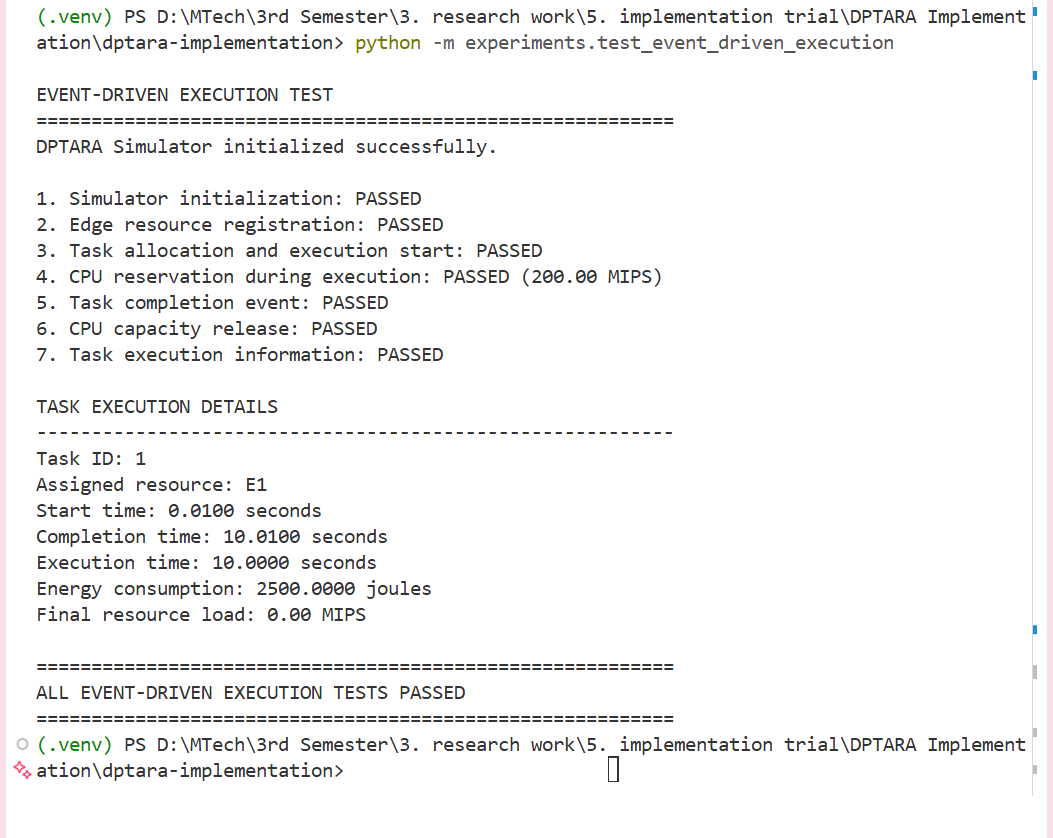
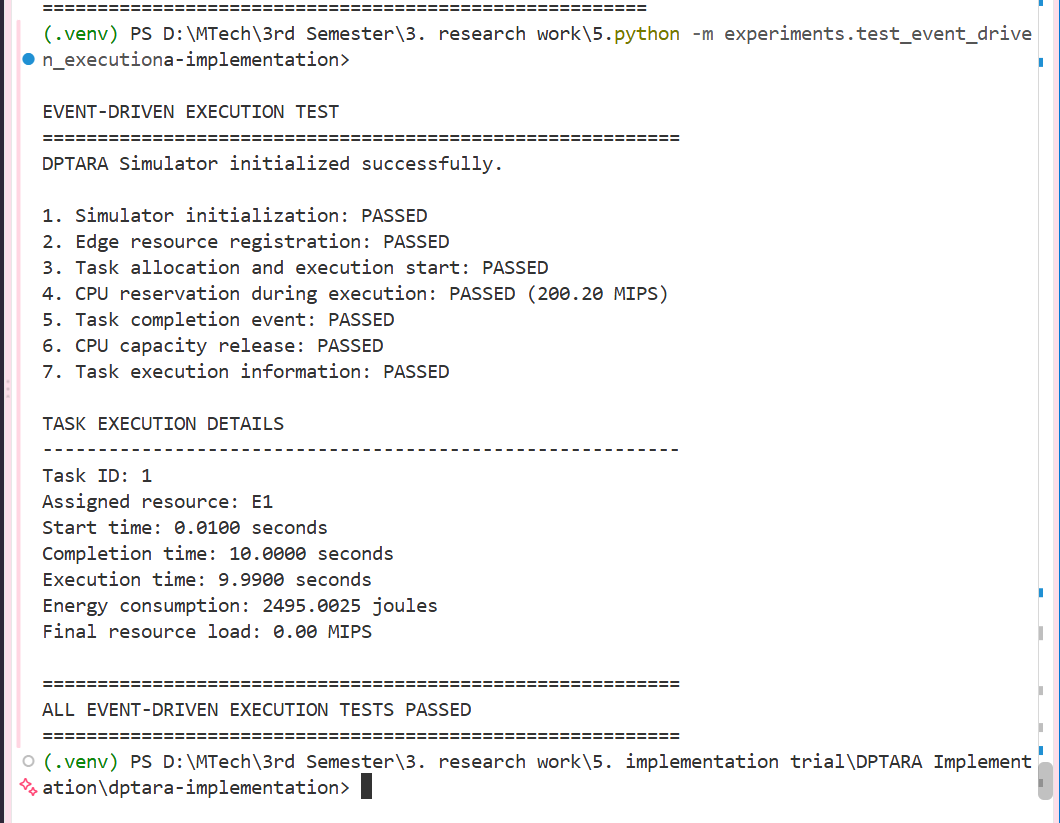
img update

Changed region(s): [[0.0, 0.0, 1.0, 1.0]]

diff --git a/src/resource_allocator.py b/src/resource_allocator.py
@@ -7,11 +7,15 @@ class ResourceAllocator:
     """
     Allocates tasks to local, edge, or cloud resources.
 
-    CPU demand is calculated using:
-        Workload (MI) / Deadline (seconds)
+    Workload (MI) = Task size (MB) * Instructions per MB
 
-    The instructions-per-MB conversion is an
-    implementation assumption, not a paper-specified value.
+    Available compute time =
+        Task deadline - Network delay
+
+    CPU demand (MIPS) =
+        Workload / Available compute time
+
+    Instructions per MB is an implementation assumption.
     """
 
     def __init__(
@@ -29,13 +33,10 @@ class ResourceAllocator:
         self.resource_manager = resource_manager
         self.instructions_per_mb = instructions_per_mb
 
-    def calculate_cpu_demand(self, task):
+    def calculate_cpu_demand(self, task, resource=None):
         """
-        Estimate task workload and required CPU capacity.
-
-        Workload (MI) = Task size (MB) * Instructions per MB
-
-        CPU demand (MIPS) = Workload (MI) / Deadline (seconds)
+        Calculate CPU demand after accounting for
+        the selected resource's network latency.
         """
 
         if task.size_mb <= 0:
@@ -44,48 +45,63 @@ class ResourceAllocator:
         if task.deadline <= 0:
             raise ValueError("Task deadline must be positive.")
 
+        network_delay = 0.0
+
+        if resource is not None:
+            network_delay = resource.network_latency_ms / 1000.0
+
+        available_compute_time = task.deadline - network_delay
+
+        if available_compute_time <= 0:
+            return None
+
         workload = (
             task.size_mb * self.instructions_per_mb
         )
 
-        cpu_demand = workload / task.deadline
+        cpu_demand = workload / available_compute_time
 
-        task.workload_mi = workload
-        task.cpu_demand_mips = cpu_demand
+        return workload, cpu_demand
 
-        return cpu_demand
-
-    def _find_least_loaded_resource(self, resources, cpu_demand):
+    def _find_least_loaded_resource(self, resources, task):
         """
         Find the least-utilized resource that can
-        accommodate the required CPU demand.
+        accommodate the deadline-aware CPU demand.
         """
 
-        eligible_resources = [
-            resource
-            for resource in resources
-            if resource.available_capacity >= cpu_demand
-        ]
+        eligible_resources = []
+
+        for resource in resources:
+
+            demand_details = self.calculate_cpu_demand(
+                task,
+                resource
+            )
+
+            if demand_details is None:
+                continue
+
+            workload, cpu_demand = demand_details
+
+            if resource.available_capacity >= cpu_demand:
+                eligible_resources.append(
+                    (resource, workload, cpu_demand)
+                )
 
         if not eligible_resources:
             return None
 
         return min(
             eligible_resources,
-            key=lambda resource: resource.utilization
+            key=lambda item: item[0].utilization
         )
 
     def allocate_task(self, task):
         """
-        Allocate a task using hierarchical allocation.
-
-        Selection order:
+        Hierarchical allocation:
             1. Local resources
             2. Edge resources
             3. Cloud resources
-
-        Resources are selected according to available
-        CPU capacity and current utilization.
         """
 
         if not isinstance(task, Task):
@@ -94,68 +110,54 @@ class ResourceAllocator:
         if task.status != "pending":
             raise ValueError("Only pending tasks can be allocated.")
 
-        # Step 1: Calculate task CPU demand
-        cpu_demand = self.calculate_cpu_demand(task)
-
-        # Step 2: Retrieve active resources
         all_resources = (
             self.resource_manager.get_available_resources()
         )
 
-        # Step 3: Try local resources first
-        local_resources = [
-            resource for resource in all_resources
-            if resource.resource_type == "local"
-        ]
-
-        selected_resource = self._find_least_loaded_resource(
-            local_resources,
-            cpu_demand
-        )
-
-        # Step 4: Try edge resources if local resources fail
-        if selected_resource is None:
-
-            edge_resources = [
+        resource_groups = [
+            [
+                resource for resource in all_resources
+                if resource.resource_type == "local"
+            ],
+            [
                 resource for resource in all_resources
                 if resource.resource_type == "edge"
-            ]
-
-            selected_resource = self._find_least_loaded_resource(
-                edge_resources,
-                cpu_demand
-            )
-
-        # Step 5: Try cloud resources if edge resources fail
-        if selected_resource is None:
-
-            cloud_resources = [
+            ],
+            [
                 resource for resource in all_resources
                 if resource.resource_type == "cloud"
             ]
+        ]
 
-            selected_resource = self._find_least_loaded_resource(
-                cloud_resources,
-                cpu_demand
+        selected = None
+
+        for group in resource_groups:
+
+            selected = self._find_least_loaded_resource(
+                group,
+                task
             )
 
-        # Step 6: Handle allocation failure
-        if selected_resource is None:
+            if selected is not None:
+                break
+
+        if selected is None:
             task.status = "unallocated"
             return None
 
-        # Step 7: Reserve CPU capacity
+        selected_resource, workload, cpu_demand = selected
+
         self.resource_manager.add_load(
             selected_resource.resource_id,
             cpu_demand
         )
 
-        # Step 8: Update task information
+        task.workload_mi = workload
+        task.cpu_demand_mips = cpu_demand
         task.assigned_resource = selected_resource.resource_id
         task.status = "allocated"
 
         return selected_resource
-
 
     def release_task(self, task):
         """
@@ -168,7 +170,11 @@ class ResourceAllocator:
         if task.cpu_demand_mips is None:
             raise ValueError("Task CPU demand is unavailable.")
 
-        if task.status not in ("allocated", "running", "completed"):
+        if task.status not in (
+            "allocated",
+            "running",
+            "completed"
+        ):
             raise ValueError("Task is not in a releasable state.")
 
         self.resource_manager.release_load(
@@ -177,4 +183,3 @@ class ResourceAllocator:
         )
 
         task.assigned_resource = None
-
